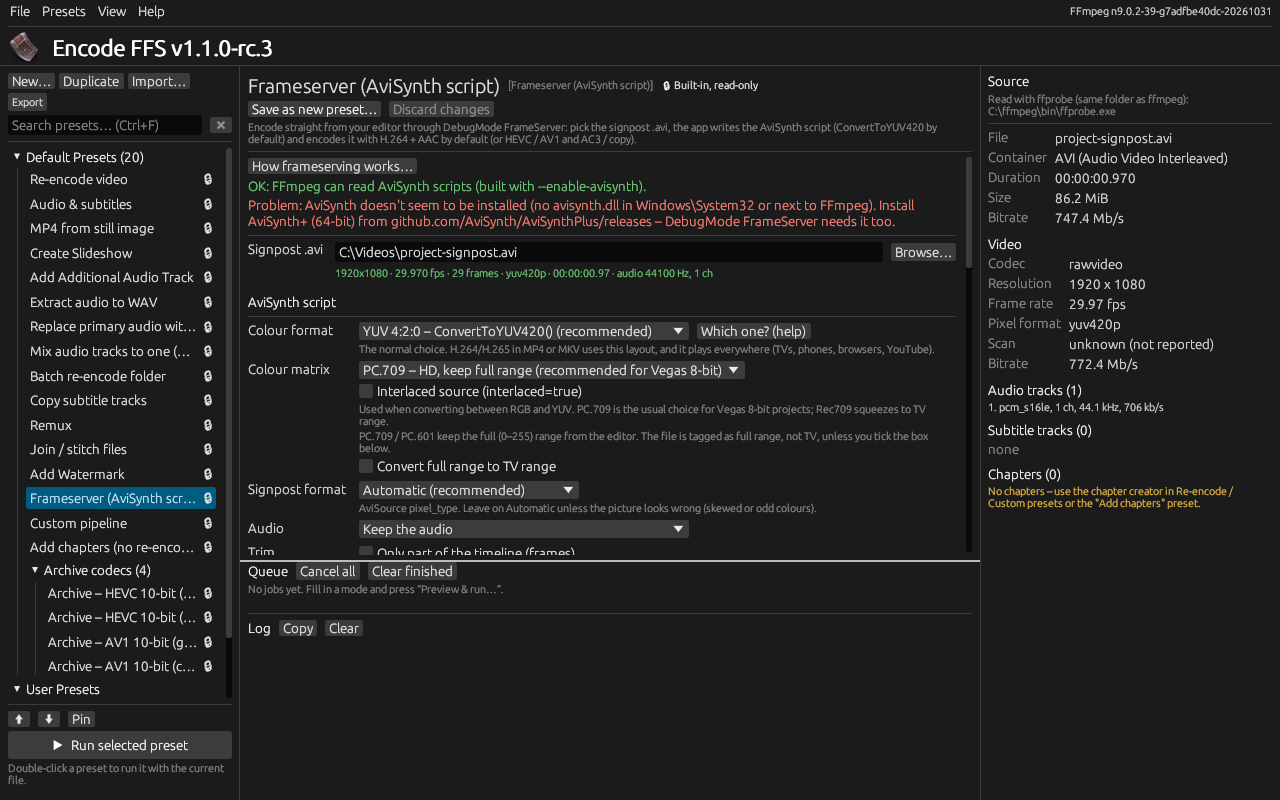
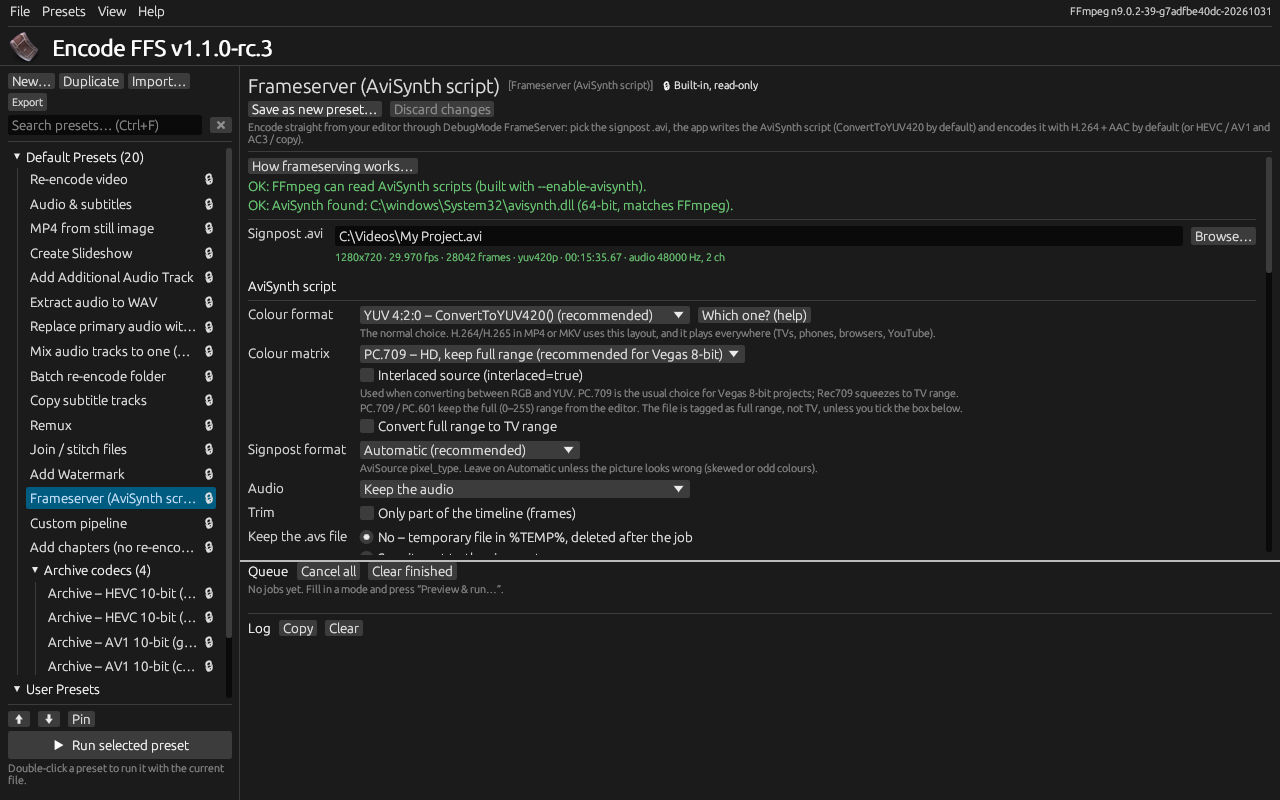
User guide: Frameserver screenshot shows the ready state (both checks OK, neutral signpost path)

Changed region(s): [[0.1875, 0.0938, 1.0, 0.7188], [0.1875, 0.125, 0.5, 0.1875], [0.0625, 0.9062, 0.1562, 0.9375]]

diff --git a/docs/frameserver.md b/docs/frameserver.md
@@ -6,7 +6,7 @@ The **Frameserver (AviSynth script)** preset encodes straight from your video ed
 
 How it works: the editor serves the finished timeline through **DebugMode FrameServer**, which writes a small "signpost" `.avi` file. You pick that file. The app writes a short **AviSynth** script that opens the signpost, and FFmpeg encodes the script.
 
-![The Frameserver form with C:\Videos\project-signpost.avi selected. The checks at the top say FFmpeg can read AviSynth scripts but AviSynth is not installed. Below are the colour format, colour matrix, signpost format, audio and trim options.](images/frameserver.png)
+![The Frameserver form with C:\Videos\My Project.avi selected. Both checks at the top are OK: FFmpeg can read AviSynth scripts, and 64-bit AviSynth was found in Windows\System32. The signpost line reads 1280x720, 29.970 fps, 28042 frames, 00:15:35.67, audio 48000 Hz, 2 ch. Below are the colour format, colour matrix, signpost format, audio and trim options.](images/frameserver.png)
 
 ## What you need
 
@@ -14,12 +14,12 @@ How it works: the editor serves the finished timeline through **DebugMode FrameS
 - **AviSynth+ (64-bit)**, because the app's FFmpeg is 64-bit. The AviSynth+ installer can put both versions on your PC.
 - An FFmpeg that can read AviSynth scripts. The usual Windows builds (BtbN and gyan.dev, including the one the app downloads) can.
 
-The checks at the top of the form tell you, in plain words, whether each piece is there and what to install if not. **How frameserving works…** shows a short help text.
+The checks at the top of the form tell you, in plain words, whether each piece is there. When everything is ready, both lines start with **OK:**, as in the picture above: FFmpeg can read AviSynth scripts, and AviSynth+ was found (64-bit, matching FFmpeg). If something is missing, the line starts with **Problem:** and says what to install. **How frameserving works…** shows a short help text.
 
 ## Step by step
 
 1. In the editor, start DebugMode FrameServer and save the signpost `.avi`.
-2. In Encode FFS, select **Frameserver (AviSynth script)** and pick the signpost (drop it or **Browse…**).
+2. In Encode FFS, select **Frameserver (AviSynth script)** and pick the signpost (drop it or **Browse…**). The line under it shows what the editor is serving: size, frame rate, number of frames, length and audio.
 3. Check the script options. The defaults suit most HD projects.
 4. Optional: **Test the script** opens it with ffprobe and reports size, frame rate, length and audio. If it fails, it tells you why (the editor isn't serving, AviSynth+ is missing, the wrong bitness, and so on).
 5. Choose the video and audio codecs and the output, then **Preview & run…** and **Run**.
